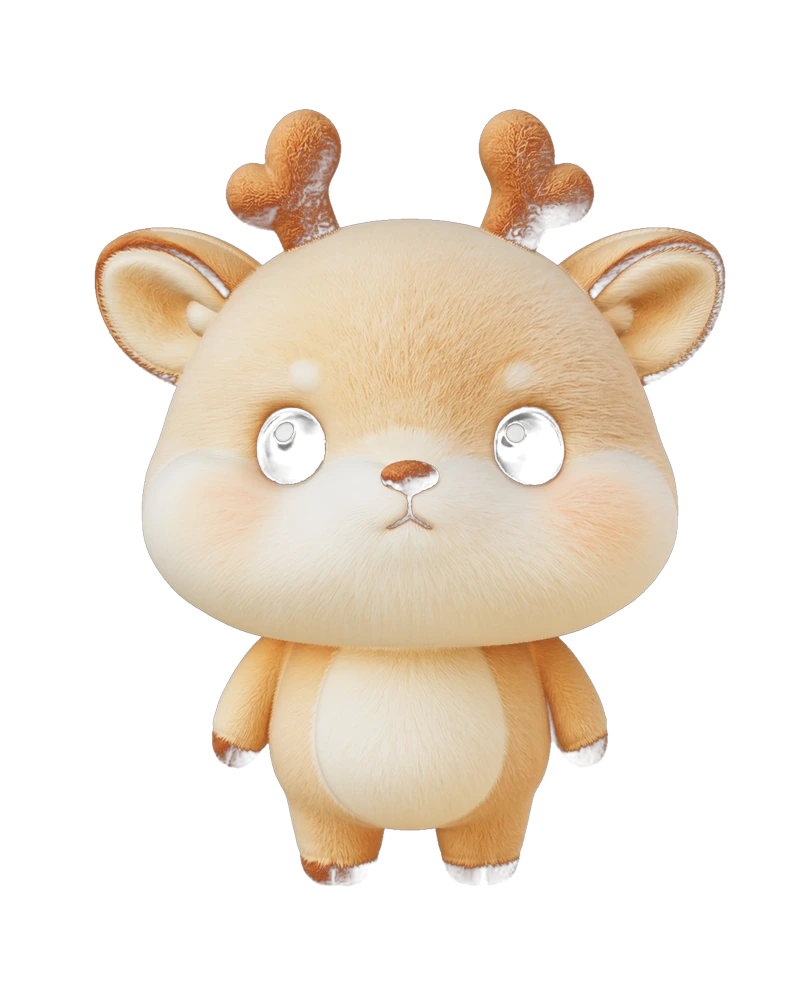
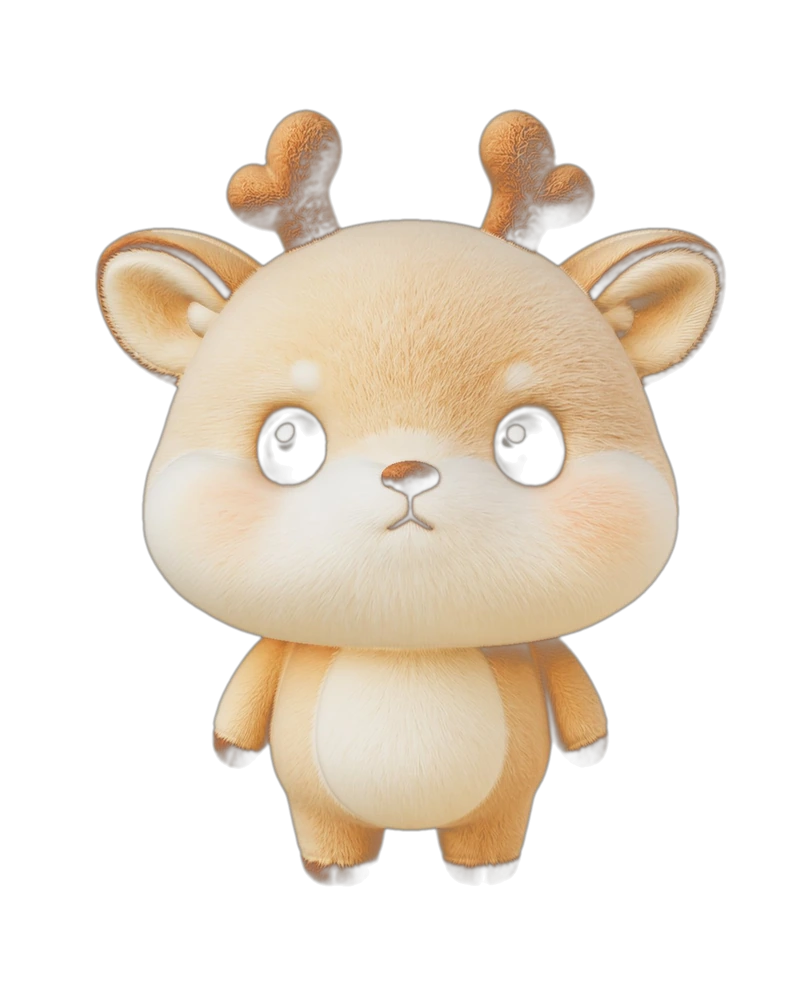
狍游记 V1.5.7
小屋改用PNG单图修复裂图；两小只改PNG+重新抠图：加大羽化去白边，恢复毛绒边缘

diff --git a/index.html b/index.html
@@ -476,7 +476,7 @@ input[type=range]{width:100%;accent-color:var(--caramel);}
       <div class="bears" id="bearBox">
     <div class="bear-wrap b1" id="bearTT" data-skin="raw">
       <div class="bphoto">
-        <img class="b-all" src="tt_hero.webp" alt="狍坨坨">
+        <img class="b-all" src="tt_hero.png" alt="狍坨坨">
         <div class="gear">
           <svg class="o-scarf" viewBox="0 0 200 220" xmlns="http://www.w3.org/2000/svg"><path d="M55 125 Q100 145 145 125 L142 140 Q100 160 58 140 Z" fill="#C4553B"/><rect x="110" y="135" width="18" height="36" rx="9" fill="#C4553B" transform="rotate(9 119 153)"/><circle cx="119" cy="151" r="2.5" fill="#F5C24D"/></svg>
           <svg class="o-earmuffs" viewBox="0 0 200 220" xmlns="http://www.w3.org/2000/svg"><path d="M28 52 Q32 32 52 30" stroke="#8C5A2B" stroke-width="8" fill="none" stroke-linecap="round"/><path d="M172 52 Q168 32 148 30" stroke="#8C5A2B" stroke-width="8" fill="none" stroke-linecap="round"/></svg>
@@ -491,7 +491,7 @@ input[type=range]{width:100%;accent-color:var(--caramel);}
     </div>
     <div class="bear-wrap b2" id="bearGG" data-skin="raw">
       <div class="bphoto">
-        <img class="b-all" src="gg_hero.webp" alt="狍果果">
+        <img class="b-all" src="gg_hero.png" alt="狍果果">
         <div class="gear">
           <svg class="o-scarf" viewBox="0 0 200 220" xmlns="http://www.w3.org/2000/svg"><path d="M58 125 Q100 143 142 125 L140 140 Q100 158 60 140 Z" fill="#7B6BA8"/><rect x="108" y="135" width="17" height="35" rx="8" fill="#7B6BA8" transform="rotate(9 116 152)"/><circle cx="116" cy="150" r="2.5" fill="#EDE7F7"/></svg>
           <svg class="o-earmuffs" viewBox="0 0 200 220" xmlns="http://www.w3.org/2000/svg"><path d="M30 52 Q34 32 54 30" stroke="#6A5B9E" stroke-width="8" fill="none" stroke-linecap="round"/><path d="M170 52 Q166 32 146 30" stroke="#6A5B9E" stroke-width="8" fill="none" stroke-linecap="round"/></svg>
@@ -516,10 +516,7 @@ input[type=range]{width:100%;accent-color:var(--caramel);}
       </div>
     </div>
     <div class="cabin-col">
-      <picture>
-      <source srcset="hero_scene.webp" type="image/webp">
       <img class="hero-cabin" src="hero_scene.png" alt="森林小屋与草地">
-    </picture>
     </div>
   </div>
    <div class="fall" id="fallBox"></div>
@@ -1190,7 +1187,7 @@ input[type=range]{width:100%;accent-color:var(--caramel);}
 </div>
 
 <script>
-const APP_VER='1.5.6';
+const APP_VER='1.5.7';
 const APP_DATE='2026-09-21';
 try{document.getElementById('appVer').textContent='V'+APP_VER;}catch(e){}
 const KEY='paoyouji_state_v2';
